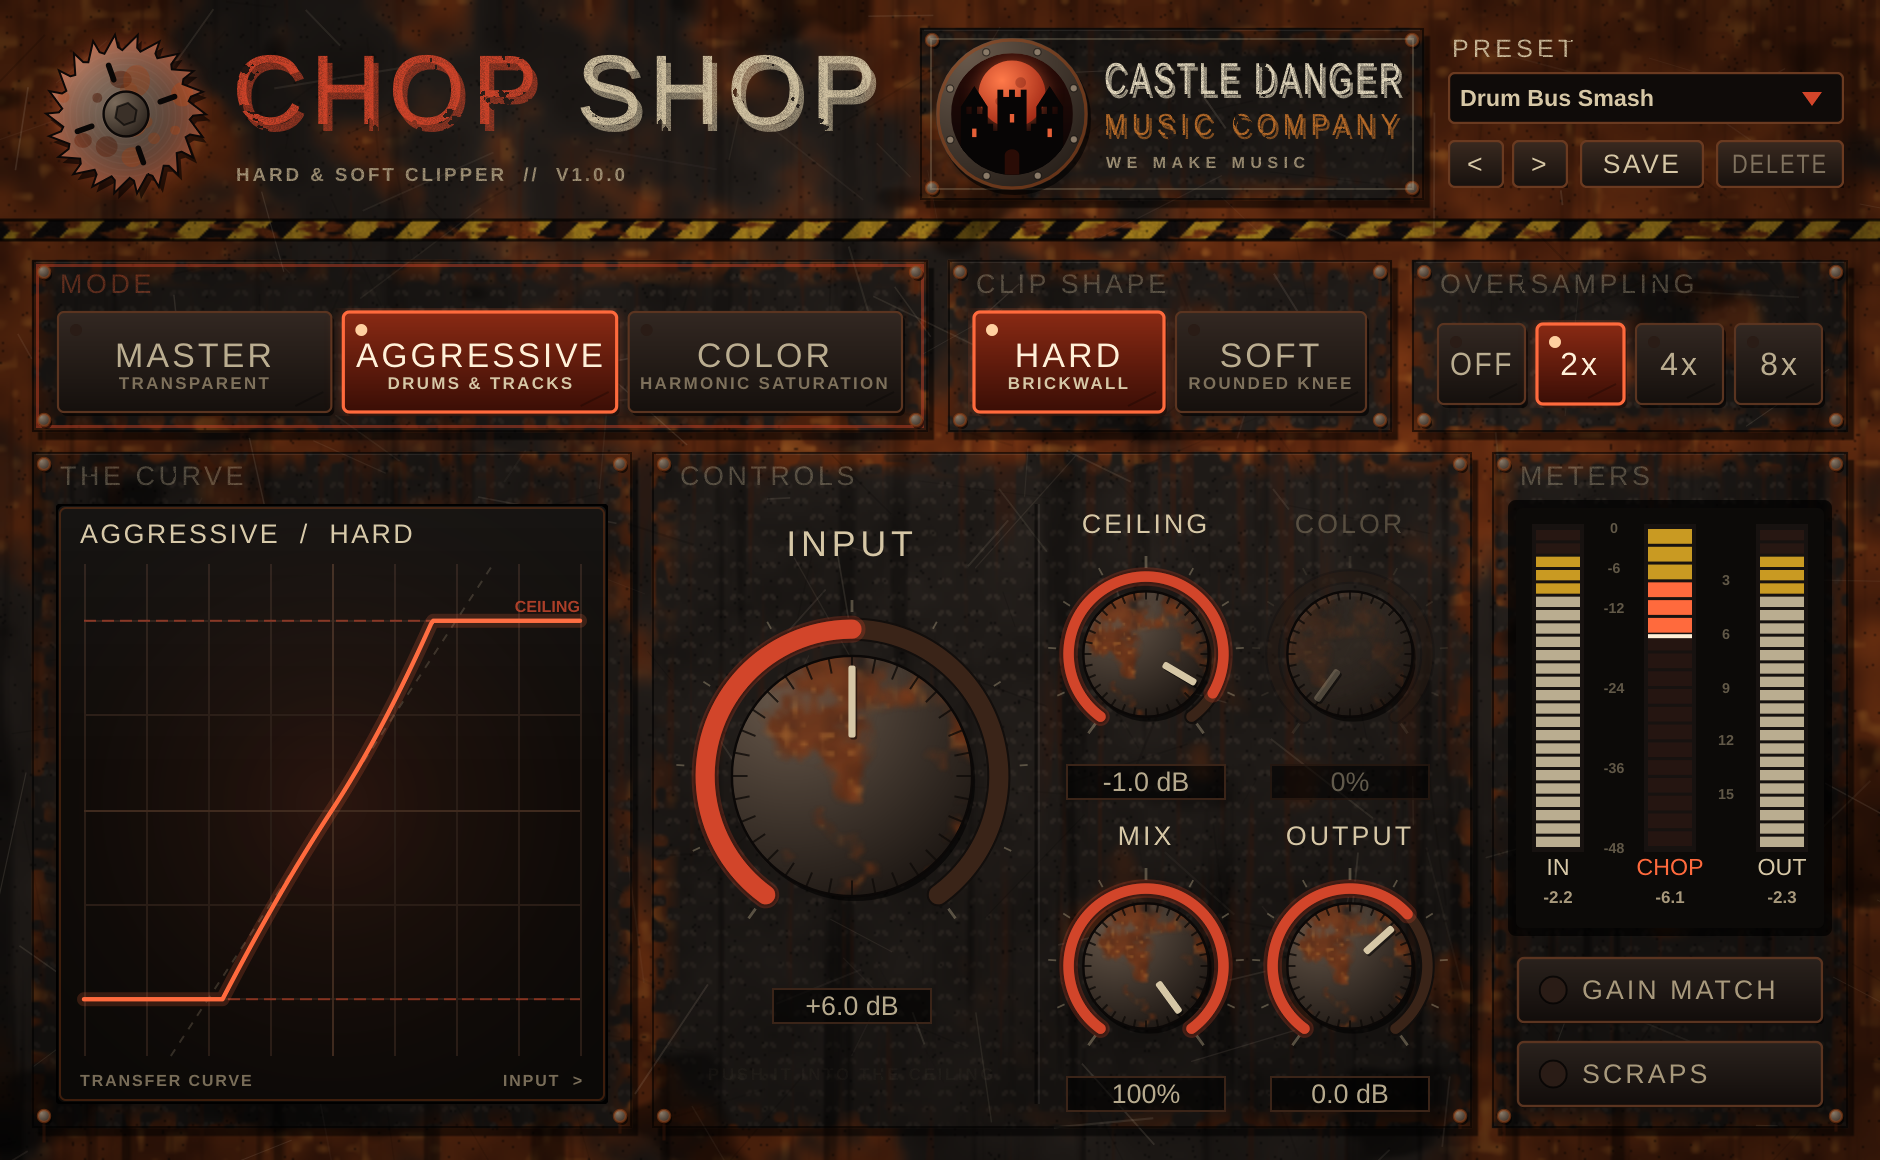
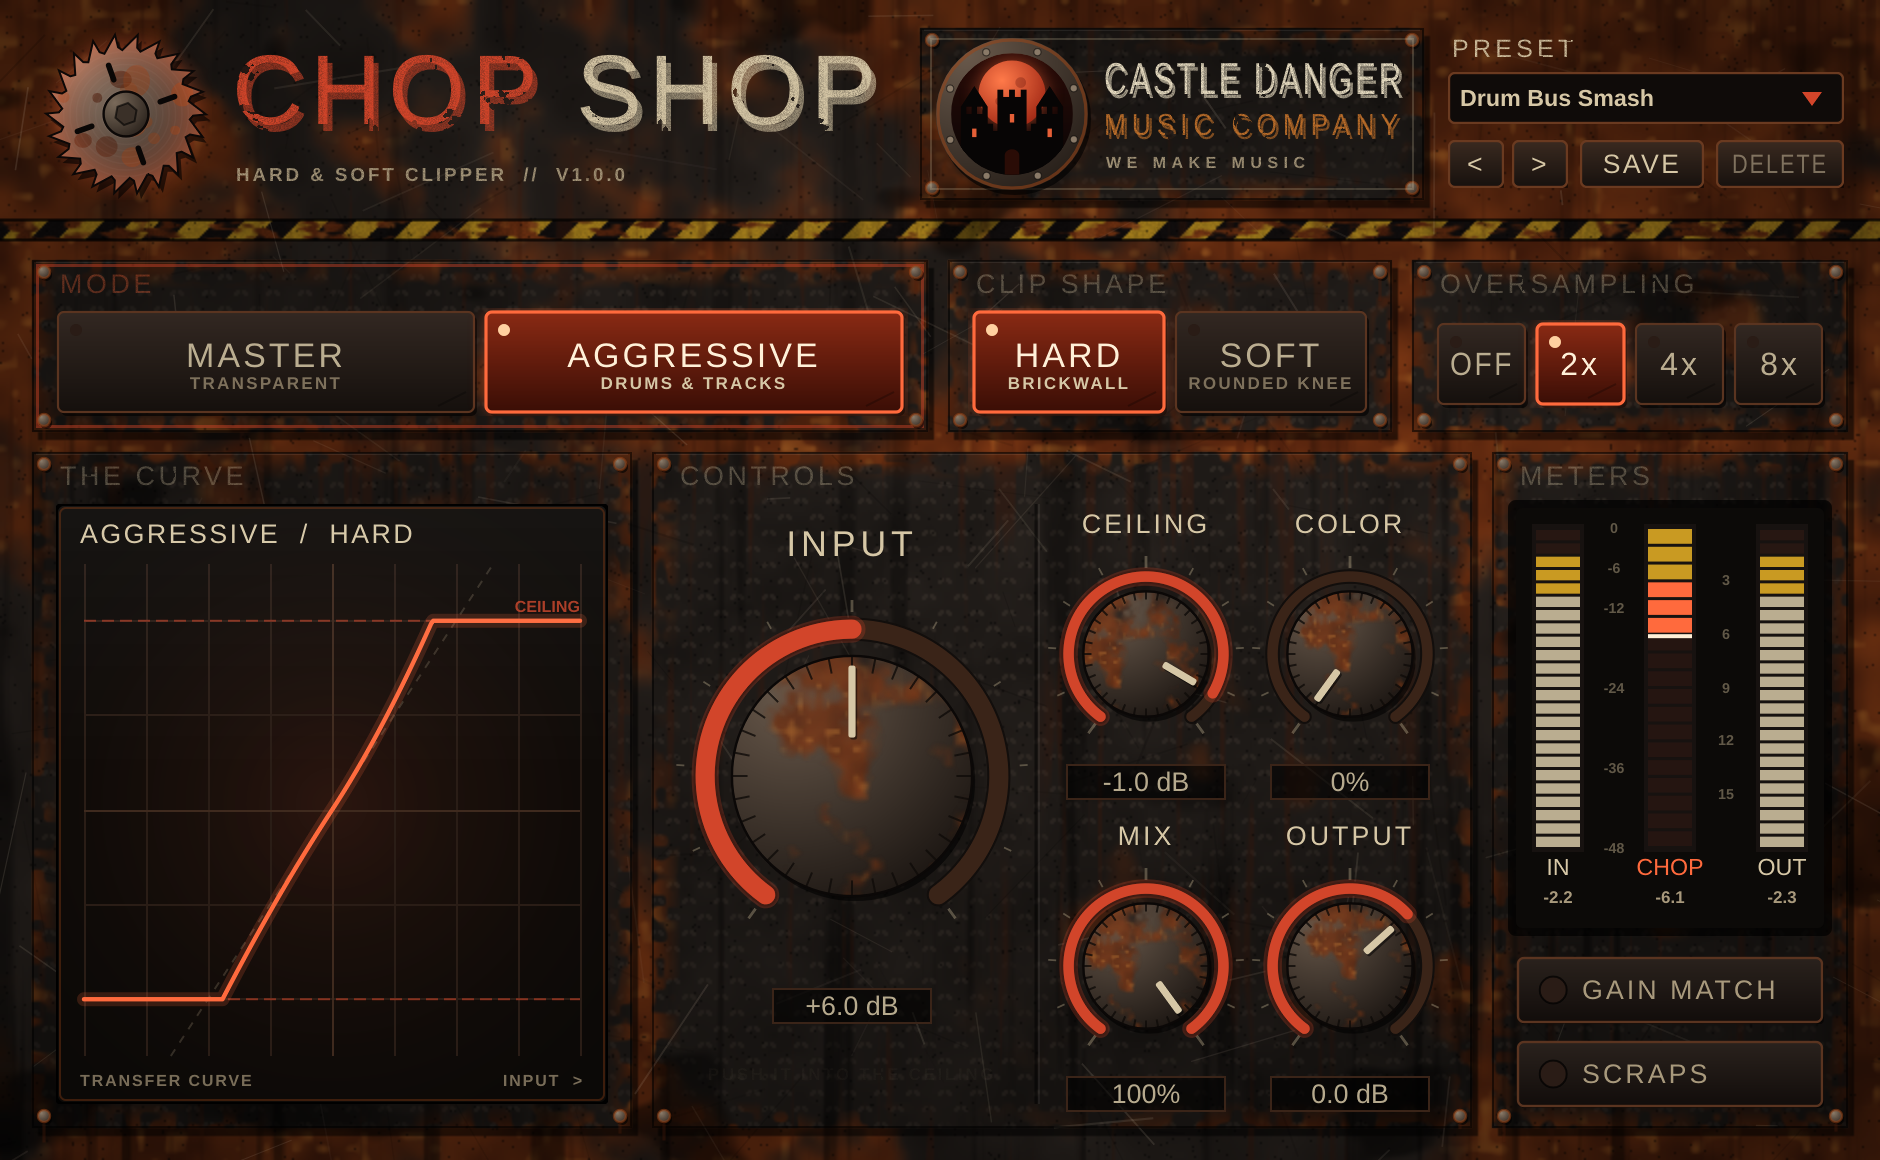
Color dial works in both modes; drop the separate Color mode
Chop Shop now has two modes, MASTER and AGGRESSIVE. The COLOR dial adds
harmonic saturation before the clipper in either one. Presets remapped,
new Master: Tape Warmth preset, tests cover COLOR in both modes.

Claude-Session: https://claude.ai/code/session_019kbSwj2Hv4FyUPAEkXLyX2

diff --git a/Source/ChopEngine.h b/Source/ChopEngine.h
@@ -2,9 +2,9 @@
 // CHOP SHOP clipper engine.
 //   Modes:  MASTER     - transparent clipper (pure hard clip / gentle soft knee)
 //           AGGRESSIVE - crunchy, dense clipping for drums and tracks
-//           COLOR      - transparent clipper with a COLOR dial that adds harmonic
-//                        saturation (0 = transparent, 100 = full colour)
-//   Shape:  HARD or SOFT, available in every mode.
+//   Shape:  HARD or SOFT, available in both modes.
+//   Color:  a dial that adds harmonic saturation in either mode
+//           (0 = no colour at all, 100 = full colour).
 //   Extras: oversampling (off/2x/4x/8x), MIX (parallel clipping), GAIN MATCH,
 //           SCRAPS (listen to only what the clipper chops off), and a final
 //           safety clamp so the output never goes past the CEILING.
@@ -14,7 +14,7 @@
 
 namespace chop
 {
-enum Mode  { master = 0, aggressive = 1, color = 2 };
+enum Mode  { master = 0, aggressive = 1 };
 enum Shape { hard = 0, soft = 1 };
 
 // Gentle soft knee: linear up to `knee`, then bends smoothly into 1.0 (slope stays continuous).
@@ -26,7 +26,7 @@ inline float softKnee (float u, float knee)
     return std::copysign (knee + r * std::tanh ((a - knee) / r), u);
 }
 
-// Harmonic saturator used by the COLOR dial. Unity gain for quiet signals, rounds off
+// Harmonic saturator used by the COLOR dial (runs before the clipper in both modes). Unity gain for quiet signals, rounds off
 // peaks, slight asymmetry for even (2nd) harmonics. c = 0 is exactly a straight wire.
 inline float colorSat (float u, float c)
 {
@@ -44,23 +44,16 @@ inline float colorSat (float u, float c)
 // Used by the audio path and by the curve display in the editor.
 inline float shapeSample (float u, int mode, int shape, float colorAmt)
 {
-    switch (mode)
+    const float c = colorSat (u, colorAmt);   // COLOR first, in either mode
+    if (mode == aggressive)
     {
-        case aggressive:
-        {
-            // pre-drive grit: odd + a little even harmonics, then clip harder/earlier
-            const float v = juce::jlimit (-2.0f, 2.0f, u);
-            const float g = v + 0.22f * v * std::abs (v) + 0.07f * v * v;
-            return shape == hard ? juce::jlimit (-1.0f, 1.0f, g) : softKnee (g, 0.45f);
-        }
-        case color:
-        {
-            const float g = colorSat (u, colorAmt);
-            return shape == hard ? juce::jlimit (-1.0f, 1.0f, g) : softKnee (g, 0.8f);
-        }
-        default: // master: transparent
-            return shape == hard ? juce::jlimit (-1.0f, 1.0f, u) : softKnee (u, 0.85f);
+        // pre-drive grit: odd + a little even harmonics, then clip harder/earlier
+        const float v = juce::jlimit (-2.0f, 2.0f, c);
+        const float g = v + 0.22f * v * std::abs (v) + 0.07f * v * v;
+        return shape == hard ? juce::jlimit (-1.0f, 1.0f, g) : softKnee (g, 0.45f);
     }
+    // master: transparent
+    return shape == hard ? juce::jlimit (-1.0f, 1.0f, c) : softKnee (c, 0.85f);
 }
 
 struct Params
@@ -110,7 +103,7 @@ public:
         const float gm = p.gainMatch ? juce::Decibels::decibelsToGain (-p.inputDb) : 1.0f;
         inGain.setTargetValue (juce::Decibels::decibelsToGain (p.inputDb));
         ceil.setTargetValue (juce::Decibels::decibelsToGain (p.ceilingDb));
-        colorAmt.setTargetValue (p.mode == color ? p.color : 0.0f);
+        colorAmt.setTargetValue (p.color);
         mixAmt.setTargetValue (p.mix);
         outGain.setTargetValue (juce::Decibels::decibelsToGain (p.outputDb) * gm);
         if (snap) for (auto* s : { &inGain, &ceil, &colorAmt, &mixAmt, &outGain }) s->setCurrentAndTargetValue (s->getTargetValue());
@@ -200,8 +193,8 @@ private:
             os[(size_t) activeOs]->processSamplesDown (block);
         }
 
-        // 4) DC blocker (non-master modes create a little DC), safety ceiling, mix, output
-        const bool dcOn = mode != master;
+        // 4) DC blocker (AGGRESSIVE and COLOR create a little DC), safety ceiling, mix, output
+        const bool dcOn = mode != master || prm.color > 0.0f;
         float outPk = 0.0f;
         std::array<float, kChunk> gMix, gOut;
         for (int i = 0; i < n; ++i) { gMix[(size_t) i] = mixAmt.getNextValue(); gOut[(size_t) i] = outGain.getNextValue(); }

diff --git a/Source/PluginEditor.cpp b/Source/PluginEditor.cpp
@@ -490,7 +490,7 @@ void CurveDisplay::paint (juce::Graphics& g)
 
     // the curve
     const auto p = proc.currentParams();
-    const float col = p.mode == chop::color ? p.color : 0.0f;
+    const float col = p.color;
     juce::Path curvePath;
     for (int i = 0; i <= 240; ++i)
     {
@@ -515,11 +515,11 @@ void CurveDisplay::paint (juce::Graphics& g)
     }
 
     // labels
-    static const char* modeNames[] = { "MASTER", "AGGRESSIVE", "COLOR" };
+    static const char* modeNames[] = { "MASTER", "AGGRESSIVE" };
     g.setColour (pal::paint); g.setFont (tex::stencil (15.0f).withExtraKerningFactor (0.08f));
-    juce::String head = juce::String (modeNames[juce::jlimit (0, 2, p.mode)]) + "  /  " + (p.shape == chop::hard ? "HARD" : "SOFT");
-    if (p.mode == chop::color) head << "  /  " << juce::roundToInt (p.color * 100.0f) << "%";
-    g.drawText (head, r.reduced (12, 6).removeFromTop (18), juce::Justification::centredLeft);
+    juce::String head = juce::String (modeNames[juce::jlimit (0, 1, p.mode)]) + "  /  " + (p.shape == chop::hard ? "HARD" : "SOFT");
+    if (p.color > 0.0f) head << "  +  " << juce::roundToInt (p.color * 100.0f) << "% COLOR";
+    g.drawFittedText (head, r.reduced (12, 6).removeFromTop (18).toNearestInt(), juce::Justification::centredLeft, 1, 0.6f);
     g.setColour (pal::paintDim.withAlpha (0.7f)); g.setFont (tex::plainBold (9.0f).withExtraKerningFactor (0.1f));
     g.drawText ("INPUT  >", r.reduced (12, 6).removeFromBottom (12), juce::Justification::centredRight);
     g.drawText ("TRANSFER CURVE", r.reduced (12, 6).removeFromBottom (12), juce::Justification::centredLeft);
@@ -534,7 +534,7 @@ void CurveDisplay::paint (juce::Graphics& g)
 //==============================================================================
 ChopShopEditor::ChopShopEditor (ChopShopProcessor& p)
     : AudioProcessorEditor (&p), proc (p),
-      modeSel (*p.apvts.getParameter ("mode"), { "MASTER", "AGGRESSIVE", "COLOR" }, { "TRANSPARENT", "DRUMS & TRACKS", "HARMONIC SATURATION" }),
+      modeSel (*p.apvts.getParameter ("mode"), { "MASTER", "AGGRESSIVE" }, { "TRANSPARENT", "DRUMS & TRACKS" }),
       shapeSel (*p.apvts.getParameter ("shape"), { "HARD", "SOFT" }, { "BRICKWALL", "ROUNDED KNEE" }),
       osSel (*p.apvts.getParameter ("oversample"), { "OFF", "2x", "4x", "8x" }),
       curve (p)
@@ -549,8 +549,8 @@ ChopShopEditor::ChopShopEditor (ChopShopProcessor& p)
     inputKnob->label.setFont (tex::stencil (20.0f).withExtraKerningFactor (0.12f));
 
     for (auto* s : { &modeSel, &shapeSel, &osSel }) addAndMakeVisible (*s);
-    modeSel.setTooltip ("MASTER: transparent clipping for the mix bus.  AGGRESSIVE: crunchy, dense clipping for drums and tracks.  COLOR: transparent clipping plus the COLOR dial's harmonic saturation.");
-    modeSel.onChange = [this] { updateColorEnabled(); curve.repaint(); };
+    modeSel.setTooltip ("MASTER: transparent clipping for the mix bus.  AGGRESSIVE: crunchy, dense clipping for drums and tracks.  Add COLOR to either one.");
+    modeSel.onChange = [this] { curve.repaint(); };
     shapeSel.onChange = [this] { curve.repaint(); };
 
     gainMatchButton.setName ("gainMatch");
@@ -587,7 +587,7 @@ ChopShopEditor::ChopShopEditor (ChopShopProcessor& p)
     deleteButton.onClick = [this] { confirmDelete(); };
 
     refreshPresetBox();
-    updateColorEnabled();
+    colorKnob->slider.setTooltip ("Adds harmonic saturation in either mode: 0 = none, 100 = full colour.");
     setSize (940, 580);
     startTimerHz (30);
 }
@@ -624,14 +624,6 @@ void ChopShopEditor::placeKnob (Knob& k, juce::Rectangle<int> cell)
     k.slider.setBounds (cell);
 }
 
-void ChopShopEditor::updateColorEnabled()
-{
-    const bool on = modeSel.getIndex() == chop::color;
-    colorKnob->slider.setEnabled (on);
-    colorKnob->label.setColour (juce::Label::textColourId, on ? pal::paint : pal::paintDim.withAlpha (0.4f));
-    colorKnob->slider.setTooltip (on ? "Adds harmonic saturation: 0 = transparent, 100 = full colour."
-                                     : "COLOR works in COLOR mode. Click COLOR above to use it.");
-}
 
 void ChopShopEditor::resized()
 {

diff --git a/test/snapshot.cpp b/test/snapshot.cpp
@@ -78,8 +78,9 @@ int main (int argc, char** argv)
         ChopShopProcessor p;
         p.setPlayConfigDetails (2, 2, 48000.0, 512);
         check (p.getProgramName (p.getCurrentProgram()) == "Init (Transparent)", "opens on Init (Transparent)");
+        check (p.getProgramName (5) == "Drum Bus Smash" && p.getProgramName (12) == "808 Grit", "preset order");
 
-        for (int mode = 0; mode < 3; ++mode)
+        for (int mode = 0; mode < 2; ++mode)
             for (int shape = 0; shape < 2; ++shape)
                 for (int osI : { 0, 2, 3 })
                 {
@@ -103,18 +104,30 @@ int main (int argc, char** argv)
             check (p.getLatencySamples() == p.getEngine().latencyFor (osI), juce::String::formatted ("latency reported for os %d: %d samples", osI, p.getLatencySamples()));
         }
 
-        // COLOR 0 = transparent, more COLOR = more harmonics (below the ceiling, so it's the saturator alone)
+        // COLOR 0 = transparent, more COLOR = more harmonics (MASTER, below the ceiling, so it's the saturator alone)
         float last = -300.0f;
         for (float c : { 0.0f, 25.0f, 50.0f, 75.0f, 100.0f })
         {
             p.setCurrentProgram (0);
-            setP (p, "mode", 2); setP (p, "color", c); setP (p, "shape", 1);
+            setP (p, "mode", 0); setP (p, "color", c); setP (p, "shape", 1);
             const auto y = renderSine (p, 0.5f, 500.0f);
             const float h = harmonicsDb (y, 500.0f, 48000.0);
             std::printf ("   color %3.0f%% @ -6 dBFS: harmonics %.1f dB, peak %.2f dBFS\n", c, h, juce::Decibels::gainToDecibels (peak (y)));
             if (c == 0.0f) check (h < -90.0f, "COLOR 0 is transparent");
             else check (h > last + 1.0f, juce::String::formatted ("COLOR %.0f adds harmonics", c));
             last = h;
+        }
+
+        // COLOR works in AGGRESSIVE too
+        {
+            auto hA = [&] (float c)
+            {
+                p.setCurrentProgram (0);
+                setP (p, "mode", 1); setP (p, "color", c); setP (p, "shape", 1);
+                return harmonicsDb (renderSine (p, 0.3f, 500.0f), 500.0f, 48000.0);
+            };
+            const float h0 = hA (0.0f), h1 = hA (100.0f);
+            check (h1 > h0 + 3.0f, juce::String::formatted ("COLOR adds harmonics in AGGRESSIVE: %.1f -> %.1f dB", h0, h1));
         }
 
         // AGGRESSIVE is grittier than MASTER at the same drive
@@ -191,14 +204,14 @@ int main (int argc, char** argv)
     {
         ChopShopProcessor p;
         p.setPlayConfigDetails (2, 2, 48000.0, 512);
-        p.setCurrentProgram (4); // Drum Bus Smash
+        p.setCurrentProgram (5); // Drum Bus Smash
         renderSine (p, 0.9f, 80.0f, 48000.0, 30);
         std::unique_ptr<juce::AudioProcessorEditor> ed (p.createEditor());
         // let the meters / saw / curve catch the signal
         for (int i = 0; i < 4; ++i) { renderSine (p, 0.9f, 80.0f, 48000.0, 26); juce::MessageManager::getInstance()->runDispatchLoopUntil (40); }
         check (writePng (ed->createComponentSnapshot (ed->getLocalBounds(), true, 2.0f), dir.getChildFile ("gui.png")), "main snapshot");
 
-        p.setCurrentProgram (11); // 808 Grit (COLOR)
+        p.setCurrentProgram (12); // 808 Grit (AGGRESSIVE + COLOR)
         for (int i = 0; i < 3; ++i) { renderSine (p, 0.6f, 60.0f, 48000.0, 26); juce::MessageManager::getInstance()->runDispatchLoopUntil (40); }
         check (writePng (ed->createComponentSnapshot (ed->getLocalBounds(), true, 1.0f), dir.getChildFile ("gui_color.png")), "color snapshot");
 

diff --git a/Source/Presets.h b/Source/Presets.h
@@ -7,23 +7,24 @@ namespace chop
 {
 struct Preset { juce::String name; std::vector<std::pair<juce::String, float>> values; };
 
-// mode: 0 Master, 1 Aggressive, 2 Color | shape: 0 Hard, 1 Soft | oversample: 0 Off, 1 2x, 2 4x, 3 8x
+// mode: 0 Master, 1 Aggressive | color: 0-100 in either mode | shape: 0 Hard, 1 Soft | oversample: 0 Off, 1 2x, 2 4x, 3 8x
 inline const std::vector<Preset>& factoryPresets()
 {
     static const std::vector<Preset> p {
         { "Init (Transparent)",  { } },
         { "Master: Clean Loud",  { { "mode", 0 }, { "shape", 1 }, { "inputDb", 3.0f },  { "ceilingDb", -0.3f }, { "oversample", 3 } } },
+        { "Master: Tape Warmth", { { "mode", 0 }, { "shape", 1 }, { "color", 20 },  { "inputDb", 2.5f }, { "ceilingDb", -0.5f }, { "oversample", 3 } } },
         { "Master: Peak Shaver", { { "mode", 0 }, { "shape", 0 }, { "inputDb", 1.5f },  { "ceilingDb", -1.0f }, { "oversample", 2 } } },
         { "Master: Brickwall",   { { "mode", 0 }, { "shape", 0 }, { "inputDb", 5.0f },  { "ceilingDb", -0.1f }, { "oversample", 3 } } },
         { "Drum Bus Smash",      { { "mode", 1 }, { "shape", 0 }, { "inputDb", 6.0f },  { "ceilingDb", -1.0f }, { "oversample", 1 } } },
-        { "Snare Crack",         { { "mode", 1 }, { "shape", 0 }, { "inputDb", 9.0f },  { "ceilingDb", -3.0f }, { "mix", 70 } } },
+        { "Snare Crack",         { { "mode", 1 }, { "shape", 0 }, { "inputDb", 9.0f },  { "ceilingDb", -3.0f }, { "mix", 70 }, { "color", 15 } } },
         { "Kick Chop",           { { "mode", 1 }, { "shape", 1 }, { "inputDb", 5.0f },  { "ceilingDb", -2.0f } } },
         { "Parallel Crunch",     { { "mode", 1 }, { "shape", 0 }, { "inputDb", 14.0f }, { "mix", 35 }, { "gainMatch", 1 } } },
         { "Guitar Grind",        { { "mode", 1 }, { "shape", 1 }, { "inputDb", 8.0f },  { "ceilingDb", -4.0f }, { "gainMatch", 1 } } },
-        { "Warm Glue",           { { "mode", 2 }, { "shape", 1 }, { "color", 35 },  { "inputDb", 2.0f } } },
-        { "Vocal Edge",          { { "mode", 2 }, { "shape", 1 }, { "color", 25 },  { "inputDb", 3.0f }, { "ceilingDb", -2.0f } } },
-        { "808 Grit",            { { "mode", 2 }, { "shape", 1 }, { "color", 70 },  { "inputDb", 6.0f }, { "ceilingDb", -1.0f } } },
-        { "Rust Bucket",         { { "mode", 2 }, { "shape", 0 }, { "color", 100 }, { "inputDb", 10.0f }, { "mix", 80 }, { "gainMatch", 1 } } },
+        { "Warm Glue",           { { "mode", 0 }, { "shape", 1 }, { "color", 35 },  { "inputDb", 2.0f } } },
+        { "Vocal Edge",          { { "mode", 0 }, { "shape", 1 }, { "color", 25 },  { "inputDb", 3.0f }, { "ceilingDb", -2.0f } } },
+        { "808 Grit",            { { "mode", 1 }, { "shape", 1 }, { "color", 60 },  { "inputDb", 5.0f }, { "ceilingDb", -1.0f } } },
+        { "Rust Bucket",         { { "mode", 1 }, { "shape", 0 }, { "color", 100 }, { "inputDb", 10.0f }, { "mix", 80 }, { "gainMatch", 1 } } },
     };
     return p;
 }

diff --git a/Source/PluginProcessor.cpp b/Source/PluginProcessor.cpp
@@ -21,7 +21,7 @@ juce::AudioProcessorValueTreeState::ParameterLayout ChopShopProcessor::createLay
     auto pctAttr = AudioParameterFloatAttributes().withLabel ("%")
         .withStringFromValueFunction ([] (float v, int) { return String (roundToInt (v)) + "%"; });
 
-    p.push_back (std::make_unique<AudioParameterChoice> (ParameterID { "mode", 1 }, "Mode", StringArray { "Master", "Aggressive", "Color" }, 0));
+    p.push_back (std::make_unique<AudioParameterChoice> (ParameterID { "mode", 1 }, "Mode", StringArray { "Master", "Aggressive" }, 0));
     p.push_back (std::make_unique<AudioParameterChoice> (ParameterID { "shape", 1 }, "Clip Shape", StringArray { "Hard", "Soft" }, 0));
     p.push_back (std::make_unique<AudioParameterFloat> (ParameterID { "inputDb", 1 }, "Input", NormalisableRange<float> (-12.0f, 24.0f, 0.1f), 0.0f, dbAttr));
     p.push_back (std::make_unique<AudioParameterFloat> (ParameterID { "ceilingDb", 1 }, "Ceiling", NormalisableRange<float> (-24.0f, 0.0f, 0.1f, 2.0f), 0.0f, dbAttr));

diff --git a/Source/PluginEditor.h b/Source/PluginEditor.h
@@ -113,7 +113,6 @@ private:
     void placeKnob (Knob&, juce::Rectangle<int>);
     void timerCallback() override;
     void buildBackdrop();
-    void updateColorEnabled();
 
     void refreshPresetBox();
     void stepPreset (int delta);

diff --git a/README.md b/README.md
@@ -2,8 +2,9 @@
 
 A hard & soft clipper plugin (VST3 / AU / Standalone) by **Castle Danger Music Company**.
 
-- **Modes:** MASTER (transparent), AGGRESSIVE (drums & tracks), COLOR (transparent clipper + a COLOR dial for harmonic saturation, 0 = transparent, 100 = full)
-- **Clip shape:** HARD or SOFT in every mode
+- **Modes:** MASTER (transparent) and AGGRESSIVE (drums & tracks)
+- **Color:** a dial that adds harmonic saturation to either mode (0 = none, 100 = full)
+- **Clip shape:** HARD or SOFT in both modes
 - **Extras:** oversampling (off / 2x / 4x / 8x, latency reported to the host), MIX for parallel clipping, GAIN MATCH, SCRAPS (listen to just what's chopped off), live transfer-curve display, IN / CHOP / OUT meters, factory + user presets
 
 See `controls.txt` for every control and `readme.txt` for installing.
@@ -15,7 +16,7 @@ Pushing to `main` runs GitHub Actions, which builds macOS (VST3 + AU + Standalon
 - uploads the builds as workflow artifacts, and
 - pushes the release zips to the `downloads-macos` / `downloads-windows` branches.
 
-A Linux job runs the headless checks (`test/snapshot.cpp`): DSP tests (ceiling, transparency, COLOR, SCRAPS, latency, presets) and renders the editor to PNGs, uploaded as the `gui-snapshots` artifact.
+A Linux job runs the headless checks (`test/snapshot.cpp`): DSP tests (ceiling, transparency, COLOR in both modes, SCRAPS, latency, presets) and renders the editor to PNGs, uploaded as the `gui-snapshots` artifact.
 
 Local build:
 
